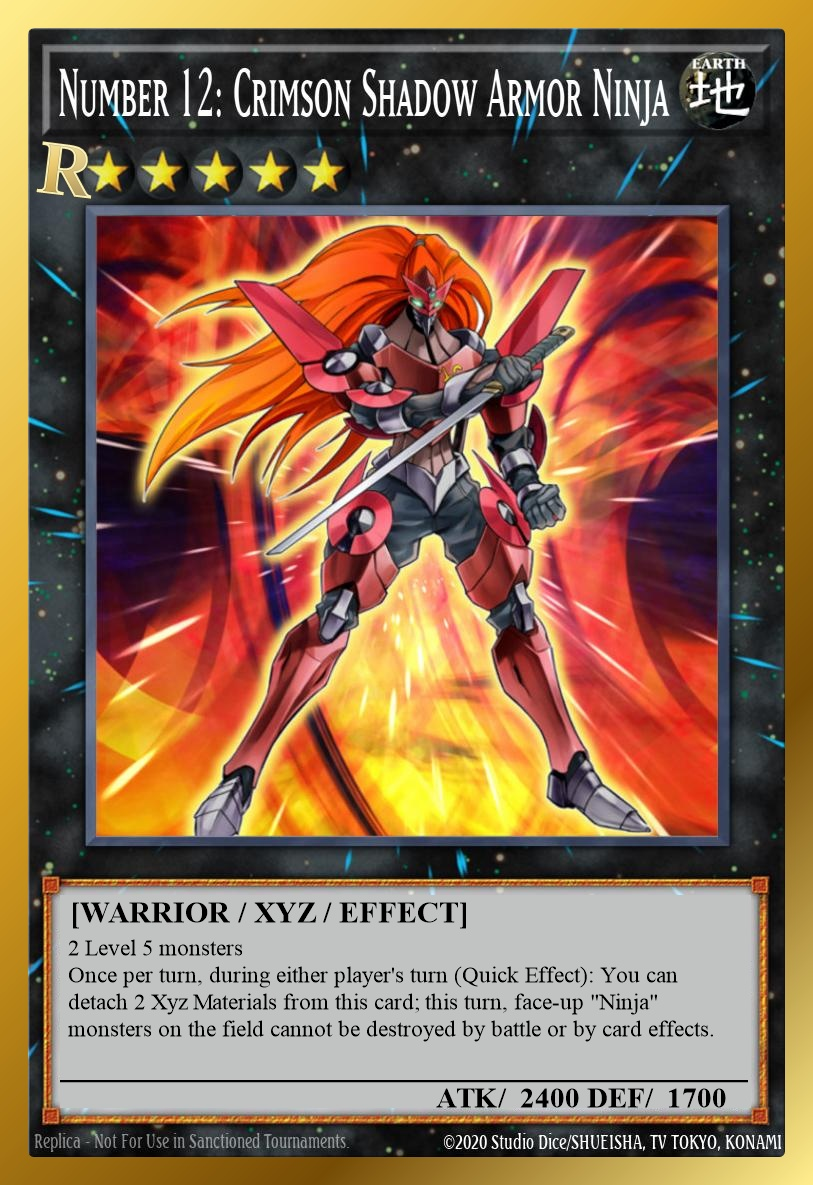
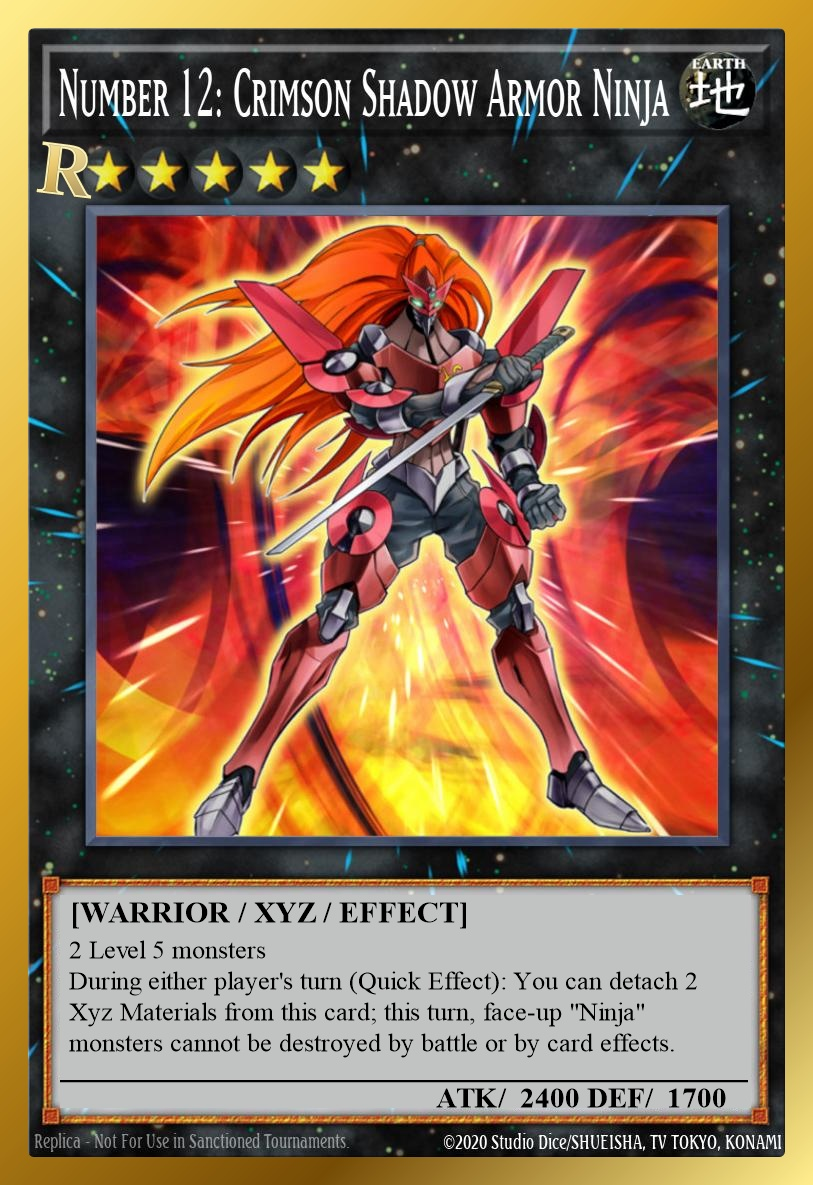
XZY Hotfix, Improve XZY card texts

Changed region(s): [[0.0615, 0.7806, 0.861, 0.9055]]

diff --git a/Redux/scripts/build-cards-cdb.js b/Redux/scripts/build-cards-cdb.js
@@ -251,7 +251,7 @@ module.exports = function buildCardsDb({ reduxRoot }) {
   const crimsonShadowArmorNinjaTextResult = db
     .prepare("UPDATE texts SET desc = ?, str1 = ? WHERE id = ?")
     .run(
-      '2 Level 5 monsters\nOnce per turn, during either player\'s turn (Quick Effect): You can detach 2 Xyz Materials from this card; this turn, face-up "Ninja" monsters on the field cannot be destroyed by battle or by card effects.',
+      '2 Level 5 monsters\nDuring either player\'s turn (Quick Effect): You can detach 2 Xyz Materials from this card; this turn, face-up "Ninja" monsters cannot be destroyed by battle or by card effects.',
       "Destruction immunity",
       19333131,
     );

diff --git a/toDos.md b/toDos.md
@@ -12,10 +12,4 @@ Gottoms, Synchro with anything, tribute anything
 Rework level 9 Synchro ally of justice field marshal,
 1 tuner + anything, piercing dmg and draw card when dealing battle damage to opponent
 
-Fix XYZ
-
-Script Error with Chaos Deck
-Number 20
-Number 94
-
 Buff Aliens
